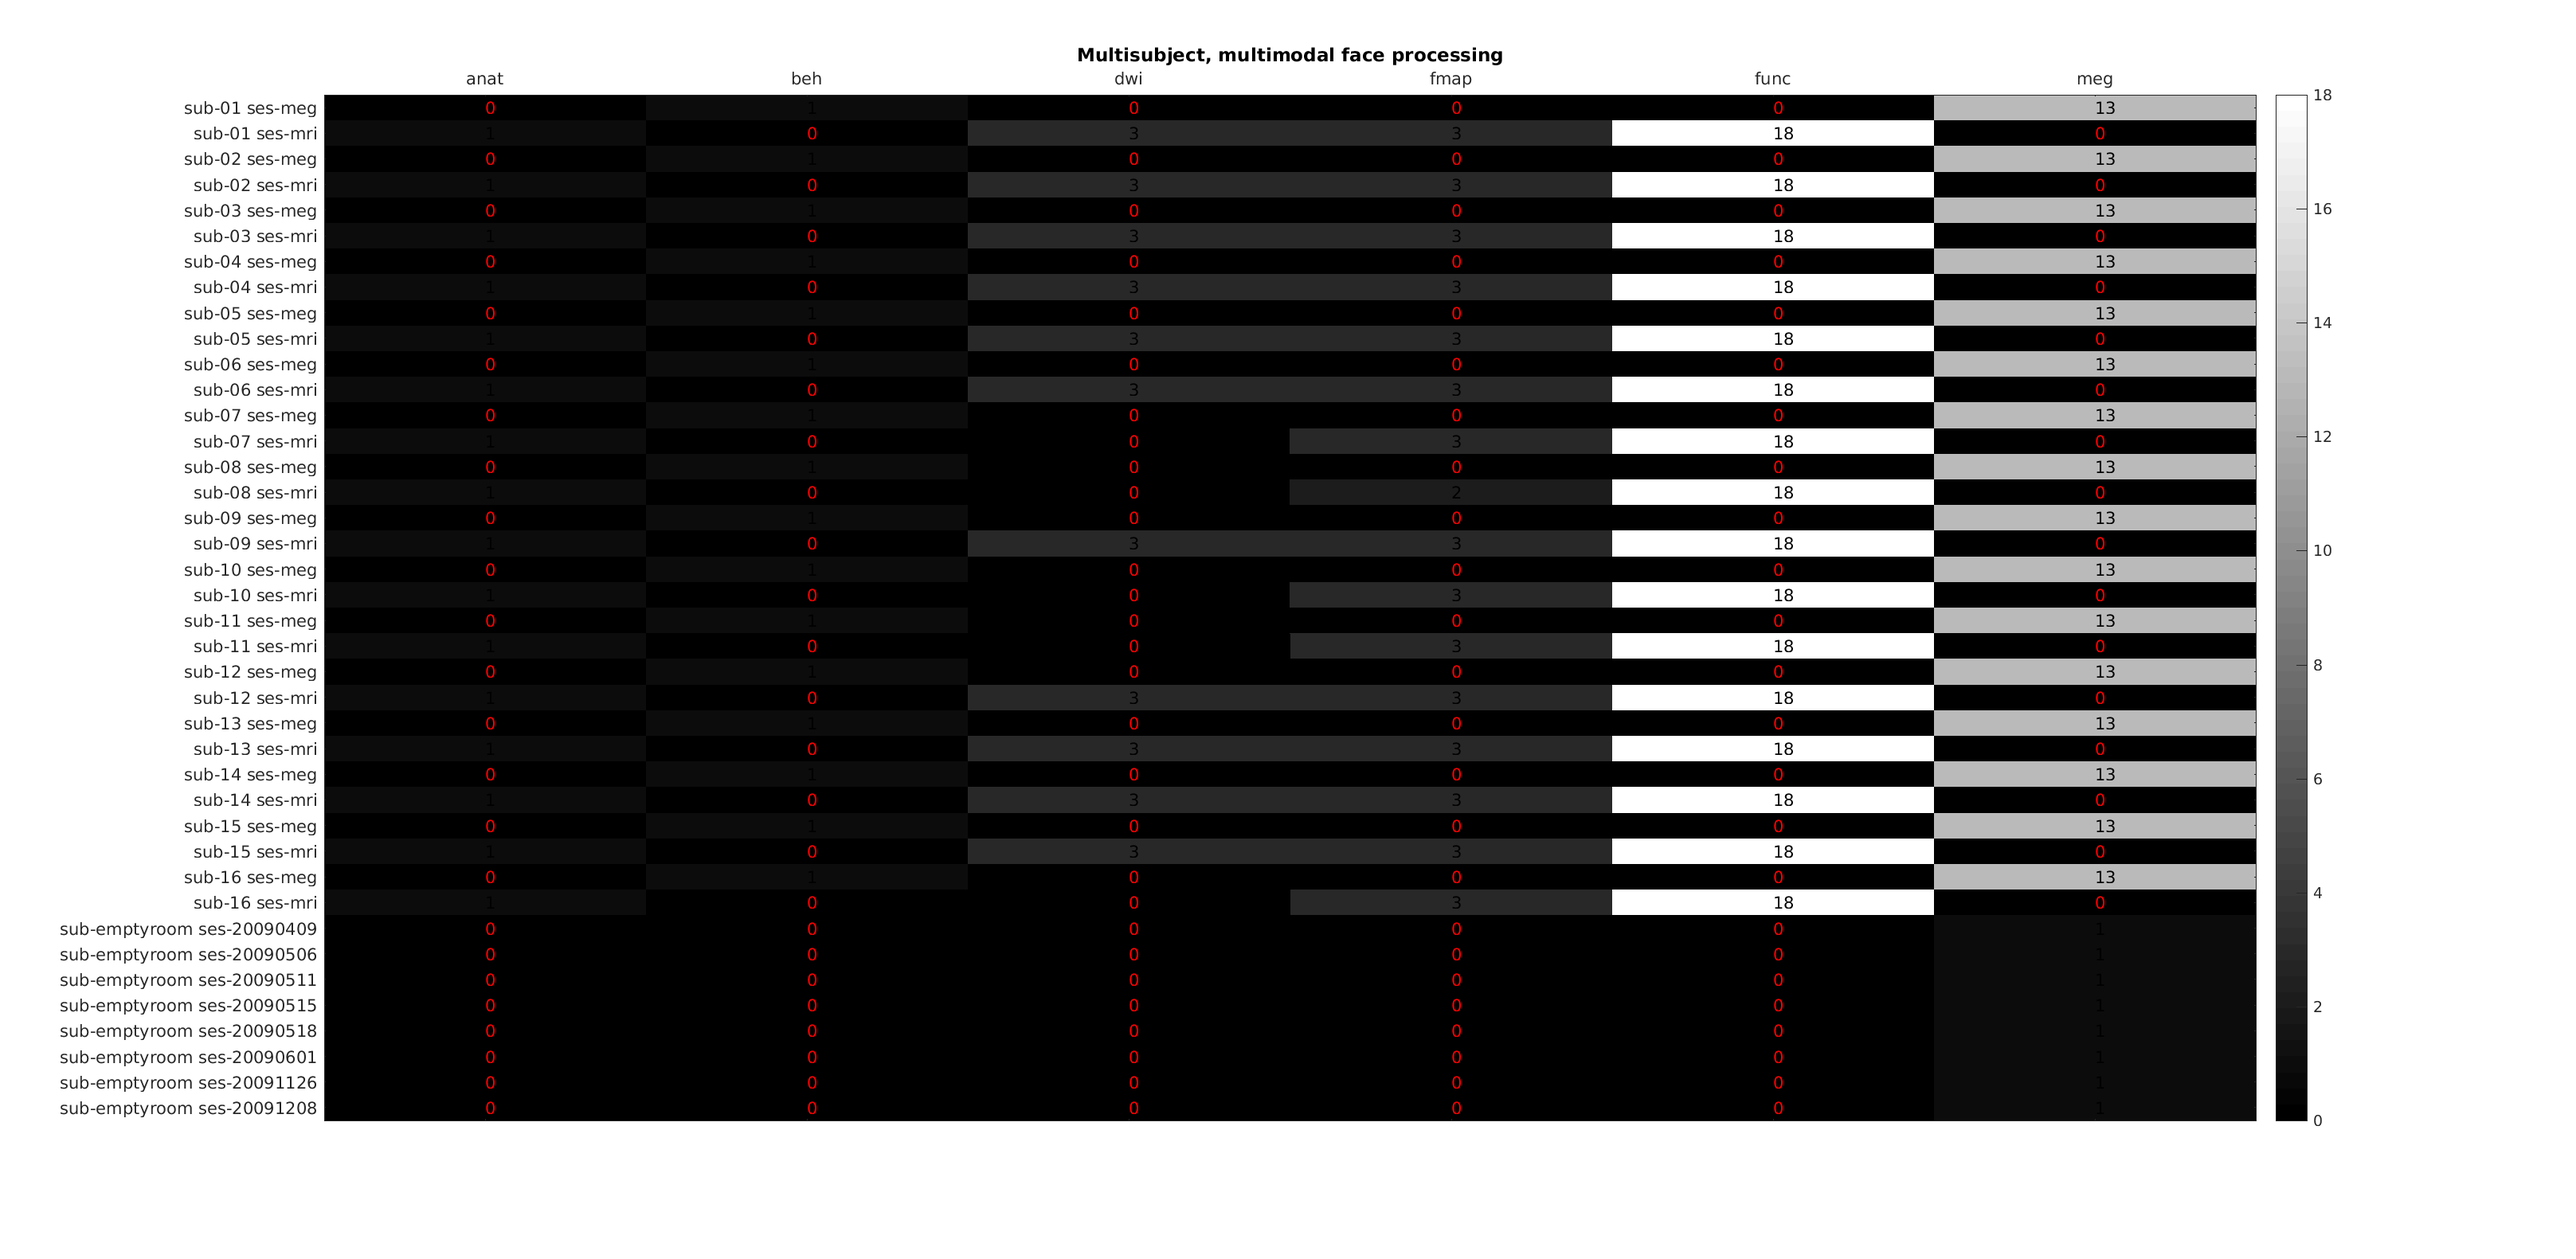
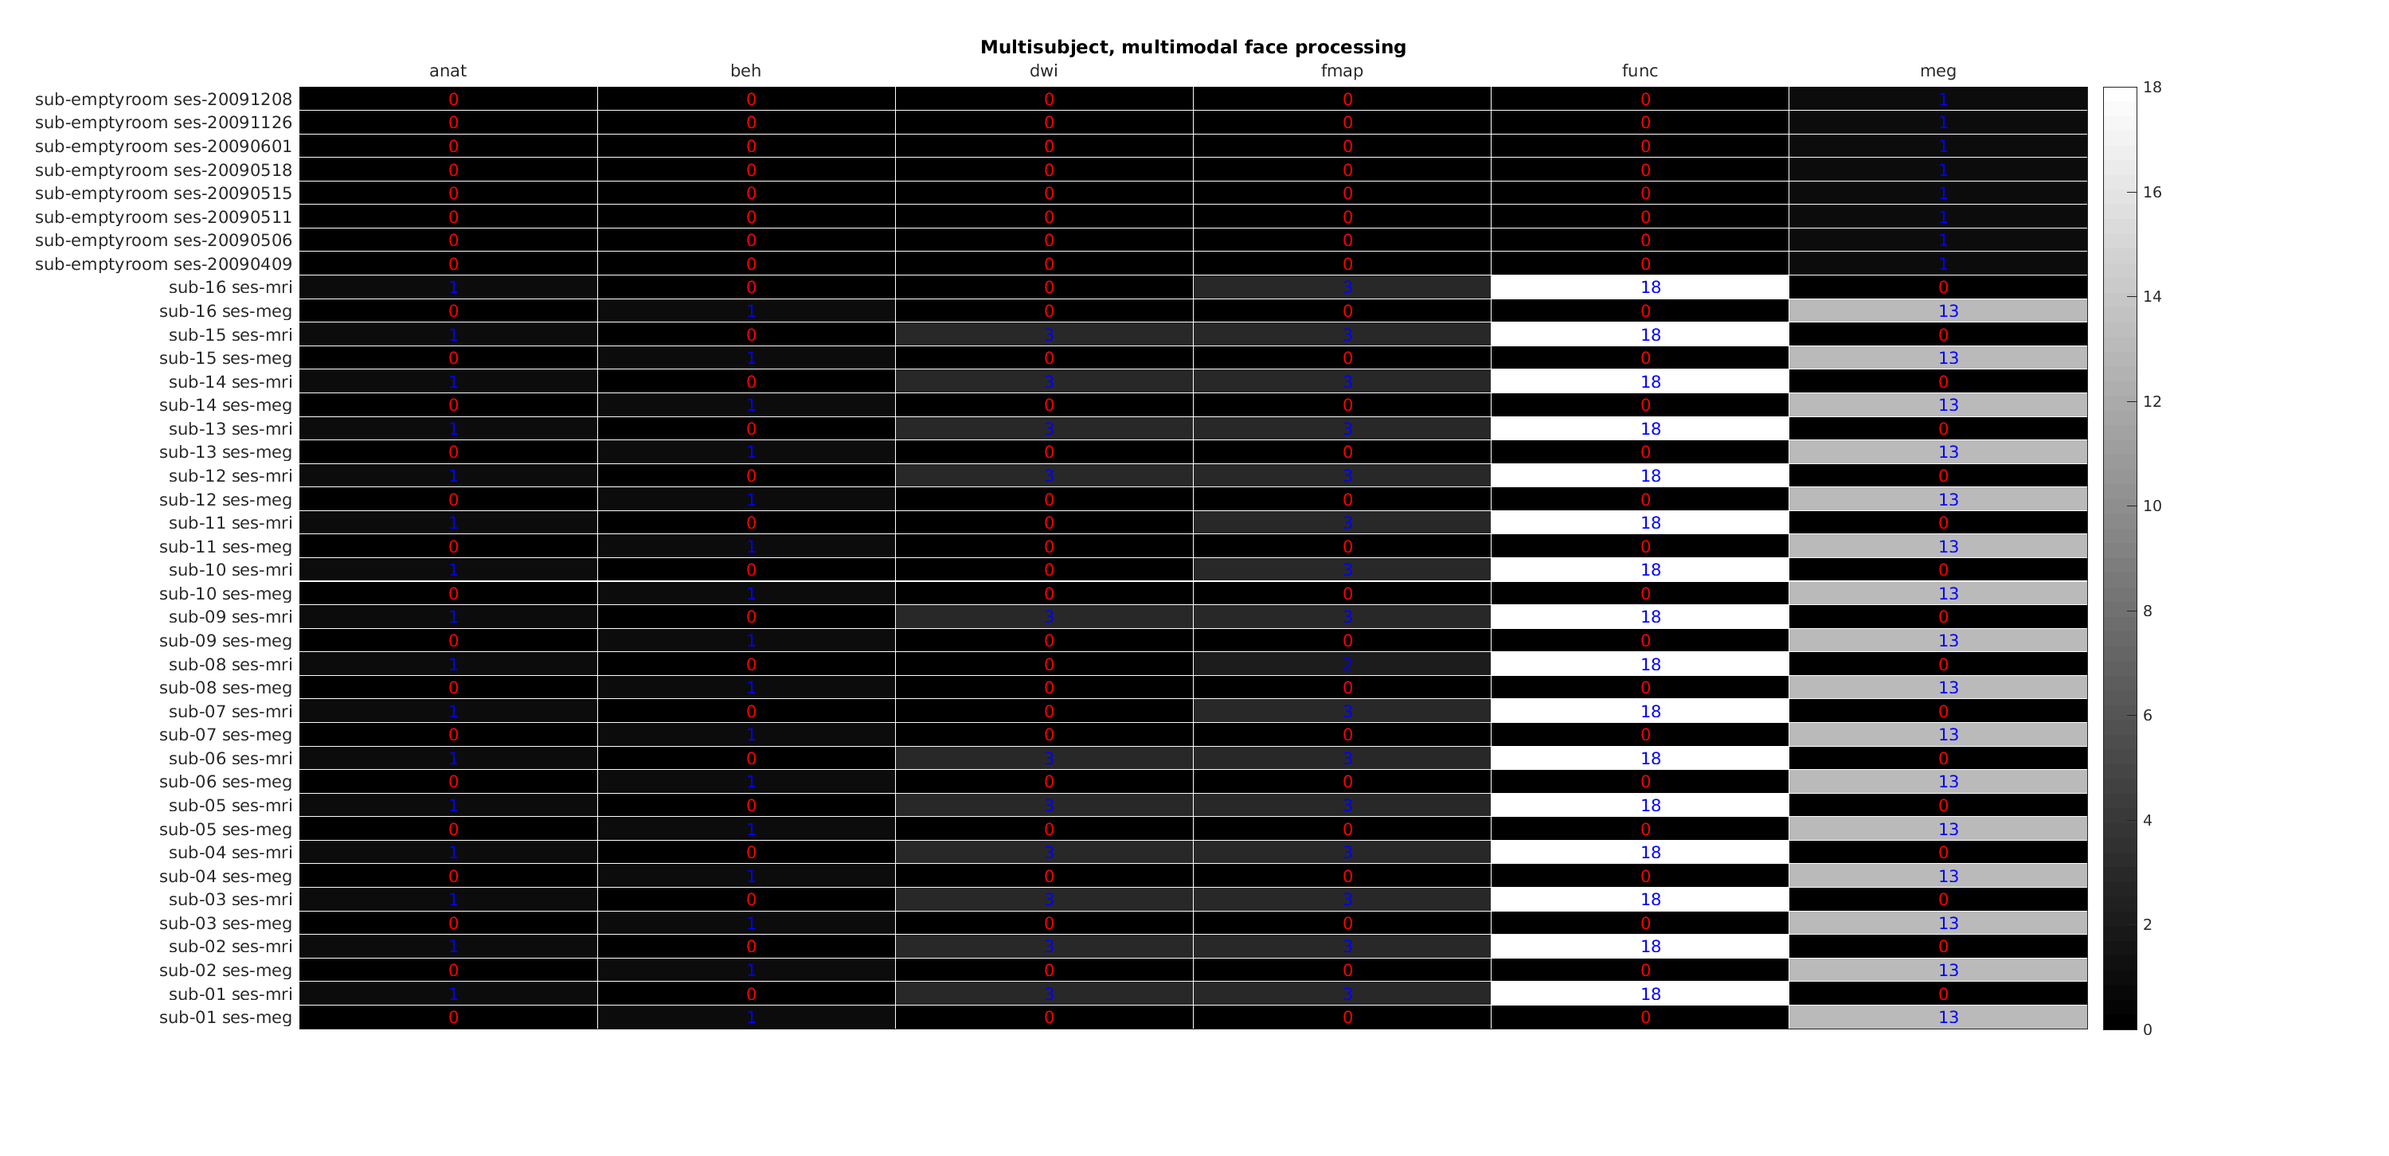
update border and doc

diff --git a/+bids/+internal/plot_diagnostic_table.m b/+bids/+internal/plot_diagnostic_table.m
@@ -43,29 +43,17 @@ function plot_diagnostic_table(diagnostic_table, headers, yticklabel, fig_name)
       'xTickLabel', xticklabel, ...
       'TickLength', [0.001 0.001]);
 
-  ca = gca;
-  ca.XAxis.MinorTickValues = [1:nb_cols + 1] - 0.5;
-
   if any(cellfun('length', xticklabel) > 40)
     set(gca, ...
         'xTick', (1:nb_cols) - 0.25, ...
         'XTickLabelRotation', 25);
-    ca.XAxis.MinorTickValues = (1:nb_cols) - 0.25;
   end
 
-  %   % add horizontal borders
-  %   x_borders = [0 nb_cols] + 0.5;
-  %   y_borders = [[1:nb_rows]', [1:nb_rows]'] - 0.5;
-  %   plot(x_borders, y_borders, '-w');
-  %
-  %   % add horizontal borders
-  %   y_borders = [0 nb_rows] + 0.5;
-  %   x_borders = [[1:nb_cols]', [1:nb_cols]'] - 0.5;
-  %   plot(x_borders, y_borders, '-w');
+  ca = gca;
+  ca.XAxis.MinorTickValues = ca.XAxis.TickValues;
 
   % y axis
   set(gca, 'yTick', 1:nb_rows);
-  ca.YAxis.MinorTickValues = [1:nb_rows + 1] - 0.5;
 
   if nb_rows < 50
     set(gca, 'yTickLabel', yticklabel);
@@ -73,12 +61,30 @@ function plot_diagnostic_table(diagnostic_table, headers, yticklabel, fig_name)
 
   box(gca, 'on');
 
-  set(gca, 'XMinorGrid', 'on', 'YMinorGrid', 'on', ...
-      'MinorGridColor', 'w', ...
-      'MinorGridAlpha', 0.5, ...
-      'MinorGridLineStyle', '-', ...
-      'LineWidth', 2, ...
-      'Layer', 'top');
+  % TODO
+  % fix diagnonal line that appear for some table dimensions
+
+  % add horizontal borders
+  x_borders = [0 nb_cols] + 0.5;
+  y_borders = [[2:nb_rows]', [2:nb_rows]'] - 0.5;
+  plot(x_borders, y_borders, '-w');
+
+  % add vertical borders
+  y_borders = [0 nb_rows] + 0.5;
+  x_borders = [[2:nb_cols]', [2:nb_cols]'] - 0.5;
+  plot(x_borders, y_borders, '-w');
+
+  %   set(gca, 'XMinorGrid', 'on', 'YMinorGrid', 'off', ...
+  %             'MinorGridColor', 'w', ...
+  %             'MinorGridAlpha', 0.5, ...
+  %             'MinorGridLineStyle', '-', ...
+  %             'LineWidth', 2, ...
+  %             'Layer', 'top');
+  %
+  %   ca = gca;
+  %   ca.XAxis.TickValues
+  %   ca.XAxis.MinorTickValues = ca.XAxis.TickValues(1:) + 0.5;
+  %   ca.YAxis.MinorTickValues = ca.YAxis.TickValues + 0.5;
 
   axis tight;
 

diff --git a/+bids/diagnostic.m b/+bids/diagnostic.m
@@ -129,8 +129,8 @@ function diagnostic_table = diagnostic(varargin)
     fig_name = [fig_name ' - split_by ' strjoin(args.Results.split_by, '-')];
   end
 
-  plot_diagnostic_table(diagnostic_table, headers, sub_ses, ...
-                        strrep(fig_name, '_', ' '));
+  bids.internal.plot_diagnostic_table(diagnostic_table, headers, sub_ses, ...
+                                      strrep(fig_name, '_', ' '));
 
   if ~isempty(args.Results.output_path)
     if exist(args.Results.output_path, 'dir')

diff --git a/tests/tests_private/test_plot_diagnostic_table.m b/tests/tests_private/test_plot_diagnostic_table.m
@@ -1,4 +1,7 @@
 function test_suite = test_plot_diagnostic_table %#ok<*STOUT>
+
+  close all;
+
   try % assignment of 'localfunctions' is necessary in Matlab >= 2016
     test_functions = localfunctions(); %#ok<*NASGU>
   catch % no problem; early Matlab versions can use initTestSuite fine
